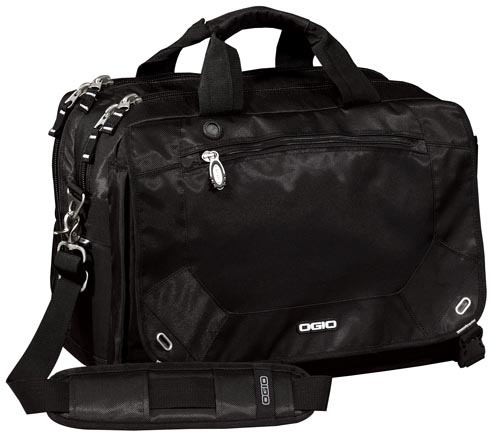
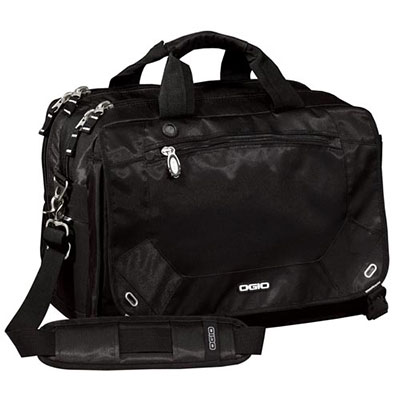
Updating hero and resizing images

diff --git a/_includes/hero.html b/_includes/hero.html
@@ -8,14 +8,14 @@
       <div class="carousel-caption">
          <h1>professional bags for professional people</h1>
     <h2>Watts Bags has been custom making bags for over 25 years.</h2>
-    <a href="" class="learnMoreButton">What can we make for you?</a>
+    <a href="{{ site.baseurl }}/customize-your-bag/" class="learnMoreButton">What can we make for you?</a>
       </div>
     </div>
     <div id="hero-2" class="item">
       <div class="carousel-caption">
          <h1>whatever you do,<br /> a watts bag is for you</h1>
     <h2>Looking for the perfect work and sales companion that looks professional and works great? Let us build a bag for you!</h2>
-    <a href="" class="learnMoreButton">Learn More</a>
+    <a href="{{ site.baseurl }}/about-us/" class="learnMoreButton">Learn More</a>
       </div>
     </div>
     <div id="hero-3" class="item">
@@ -25,9 +25,9 @@
             <h1>HIGH QUALITY, LONG LASTING BAGS</h1>
             <div class="col-sm-6">
                 <div id="wattsVideo">
-                <video poster="/img/thumb-video.jpg" controls loop id="bgvid">
-                    <source src="/video/watts.webm" type='video/webm;codecs="vp8, vorbis"' />
-                    <source src="/video/watts.mp4" type='video/mp4;codecs="avc1.42E01E, mp4a.40.2"' />
+                <video poster="{{ site.baseurl }}/img/thumb-video.jpg" controls loop id="bgvid">
+                    <source src="{{ site.baseurl }}/video/watts.webm" type='video/webm;codecs="vp8, vorbis"' />
+                    <source src="{{ site.baseurl }}/video/watts.mp4" type='video/mp4;codecs="avc1.42E01E, mp4a.40.2"' />
                 </video>
             </div>
             </div>
@@ -48,7 +48,7 @@
       <div class="carousel-caption">
          <h1>SERVING CLIENTS WORLDWIDE</h1>
     <h2>Building custom bags for clients all over the world since 1982.</h2>
-    <a href="/map/" class="learnMoreButton">Our Client Locations</a>
+    <a href="{{ site.baseurl }}/map/" class="learnMoreButton">Our Client Locations</a>
       </div>
     </div>
   </div><!-- /.carousel-inner -->

diff --git a/_site/index.html b/_site/index.html
@@ -116,14 +116,14 @@
       <div class="carousel-caption">
          <h1>professional bags for professional people</h1>
     <h2>Watts Bags has been custom making bags for over 25 years.</h2>
-    <a href="" class="learnMoreButton">What can we make for you?</a>
+    <a href="/customize-your-bag/" class="learnMoreButton">What can we make for you?</a>
       </div>
     </div>
     <div id="hero-2" class="item">
       <div class="carousel-caption">
          <h1>whatever you do,<br /> a watts bag is for you</h1>
     <h2>Looking for the perfect work and sales companion that looks professional and works great? Let us build a bag for you!</h2>
-    <a href="" class="learnMoreButton">Learn More</a>
+    <a href="/about-us/" class="learnMoreButton">Learn More</a>
       </div>
     </div>
     <div id="hero-3" class="item">
